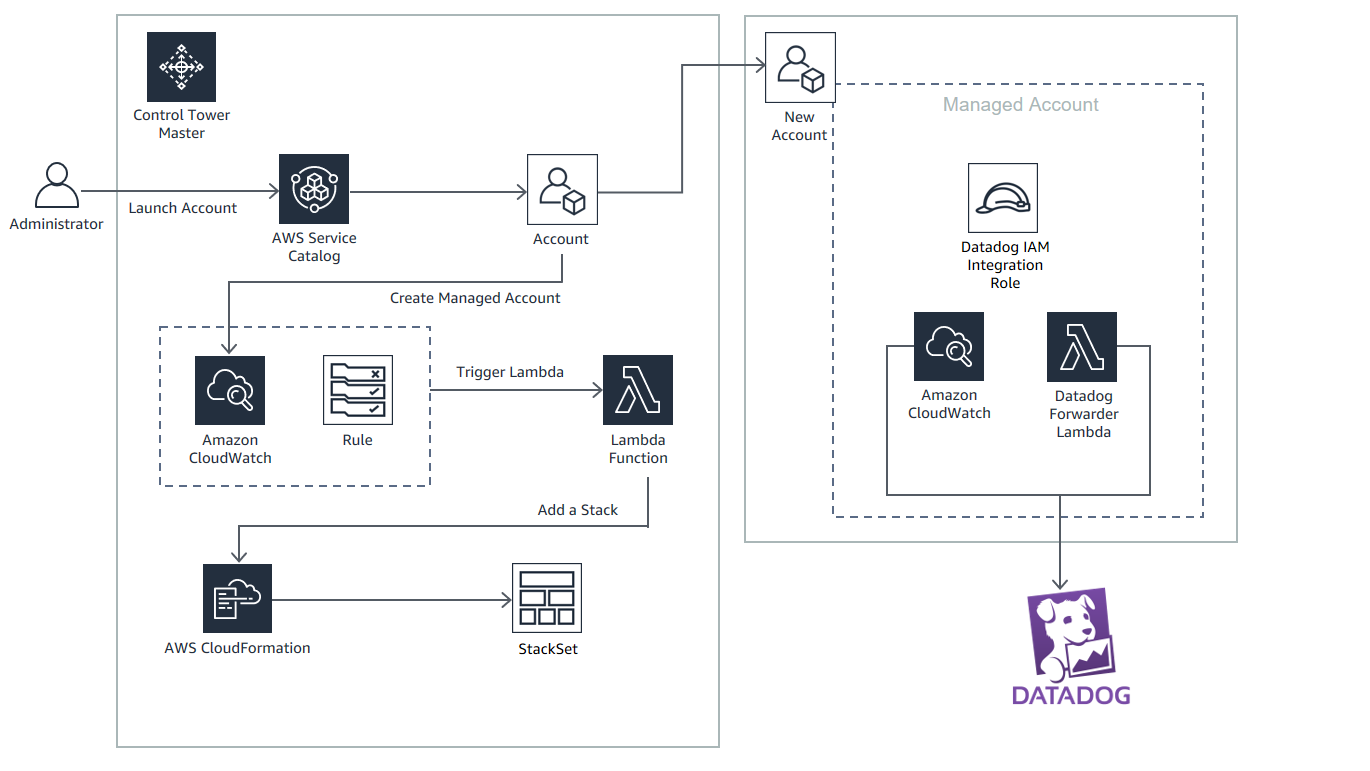
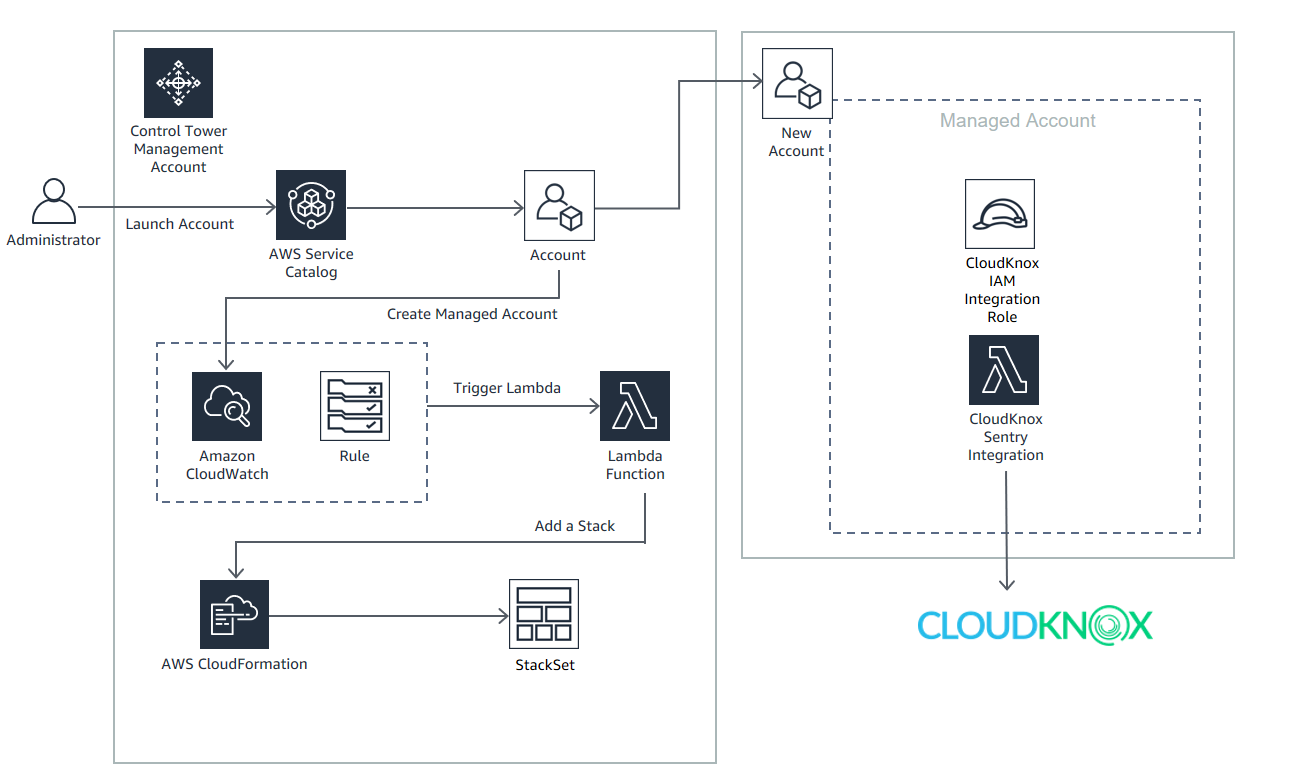
updated README

diff --git a/aws-cloudknox-controltower/README.md b/aws-cloudknox-controltower/README.md
@@ -1,9 +1,9 @@
 <p align="center">
 </p>
 
-# Use AWS Control Tower with CloudKnox for automating Multi account Least Privileges in AWS
+# Use AWS Control Tower with CloudKnox to automate multi account least privileges in AWS
 
-* AWS Control Tower Lifecyle Integration with Datadog - Allow new or updated AWS accounts in an AWS Control Tower based AWS Organization to be managed automatically by Datadog
+* AWS Control Tower Lifecyle Integration with CloudKnox - Allow new or updated AWS accounts in an AWS Control Tower based AWS Organization to be managed automatically by Datadog
 
 
 
@@ -38,7 +38,7 @@
 
 3.	Launch the **aws-cloudknox-prereq.yml** and enter the Access Key, Secret Key and the Service Account ID generated in the previous step. Accept all other default values for this template.
 
-4.	The **aws-cloudknox-prereq.yml** template creates an Amazon S3 bucket with the following name: s3-cloudknoxiamuserrightsize-<AccountId>-<Region>. The <AccountId> and <Region> default to the AWS Account ID and AWS Region where you have deployed this template.
+4.	The **aws-cloudknox-prereq.yml** template creates an Amazon S3 bucket with the following name: s3-cloudknoxiamuserrightsize-accountid-region. The 'accountid' and 'region' default to the AWS Account ID and AWS Region of the account and home region for the AWS Control Tower management account.
 	1. Create a folder called ‘CloudKnox_TriggerLifecycleEvent’ in this S3 bucket. 
 	2. Upload the CloudKnox_TriggerLifecycleEvent.zip in this folder
 
@@ -60,10 +60,5 @@ Test by creating a Lifecycle Event and add a managed account:
  	- This can take up to 30 mins for the account to be sucessfully created and the AWS Control Tower Lifecycle Event to trigger
  	- Login to the AWS Control Tower managed account - 
  		- Validate that an AWS CloudFormation stack instance has been provisioned that launches the CloudKnox Integration role template in the managed account. 
- 		- Follow the step by step instructions in the CloudKnox documentation - https://docs.cloudknox.io/ to check that data collection has started for the newly added account. In approximately 15 mins this account will show up in the CloudKnox dashboard with aPrivileged Creep Index (PCI) score calculated for this account.
+ 		- Follow the step by step instructions in the CloudKnox documentation - https://docs.cloudknox.io/ to check that data collection has started for the newly added account. In approximately 15 mins this account will show up in the CloudKnox dashboard with a Privileged Creep Index (PCI) score calculated for this account.
  	
-
-
-## Author 
-
-Kanishk Mahajan
